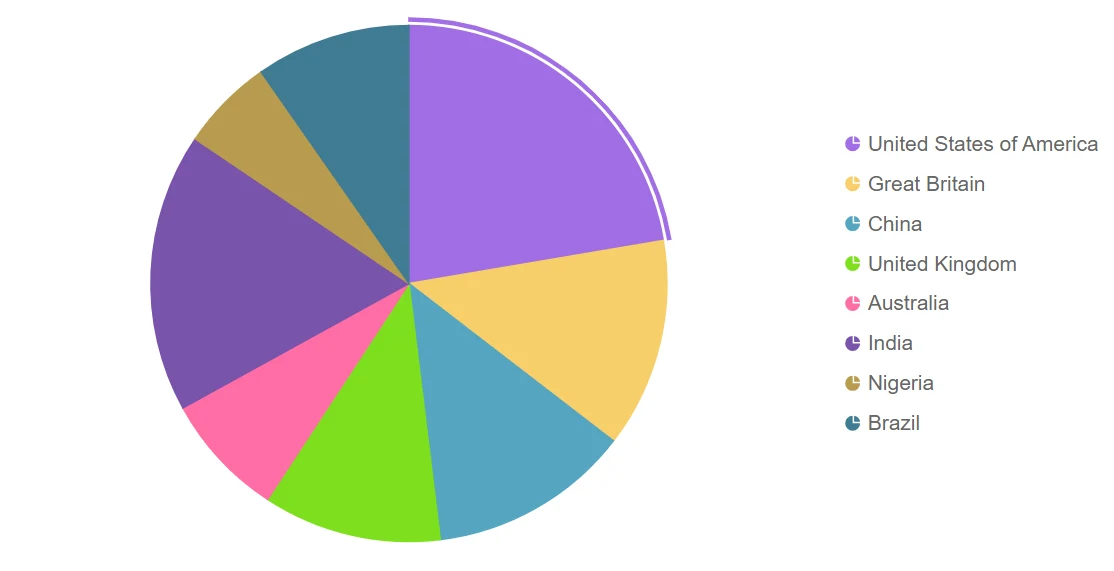
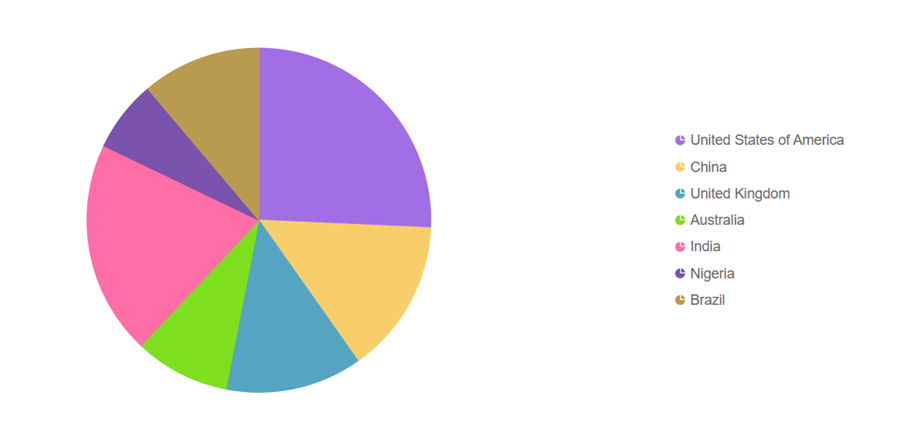
Merge pull request #9771 from syncfusion-content/984330-AI-Prompt
Updated preview sample for Blazor AccumulationChart component

Pull request: Updated preview sample for Blazor AccumulationChart component
## Description
Updated preview sample for Blazor AccumulationChart component.

## Code Studio usage(Mandatory)
- Code Studio used in this PR/MR?
    - [ ] Yes
    - [x] No
- If `Yes`: Primary use (choose one)
    - [ ] Generate new content
    - [ ] Refactor/improve existing content
    - [ ] Review assistance (explanations/summaries)
    - [ ] Other:

- Outcome
    - [ ] Saved time
    - [ ] Neutral
    - [ ] Cost time
- If “Cost time” explain in short (1 or 2 lines):

## Type of Change
- [ ] New documentation page
- [x] Update to existing documentation
- [ ] Bug fix (broken links, typos, formatting issues)
- [ ] Structural change (folders, navigation, index)
- [ ] Content improvement (clarity, examples, screenshots)
- [ ] Other (please describe):

## Reviewer Checklist (Mandatory)
- [ ] Reviewed the provided Code Studio usages related information
- [ ] Content changes follow UG/Documentation guidelines
- [ ] All provided information reviewed and verified
- [ ] Links and previews checked

diff --git a/blazor/accumulation-chart/chart-types/pie-doughnut.md b/blazor/accumulation-chart/chart-types/pie-doughnut.md
@@ -47,7 +47,7 @@ The [Pie Chart](https://www.syncfusion.com/blazor-components/blazor-charts/chart
 
 ```
 
-{% previewsample "https://blazorplayground.syncfusion.com/embed/BXLgsrWqJDwACRFV?appbar=false&editor=false&result=true&errorlist=false&theme=bootstrap5" backgroundimage "[Blazor Pie Chart](../images/pie-dough-nut/blazor-pie-chart.webp)" %}
+{% previewsample "https://blazorplayground.syncfusion.com/embed/LtBxjmseLjkZamMo?appbar=false&editor=false&result=true&errorlist=false&theme=fluent2" backgroundimage "[Blazor Pie Chart](../images/pie-dough-nut/blazor-pie-chart.webp)" %}
 
 ## Radius customization
 
@@ -87,7 +87,7 @@ The radius of the pie series will be set to 80% of its size (minimum of chart wi
 
 ```
 
-{% previewsample "https://blazorplayground.syncfusion.com/embed/BZLgsriKfjQmubFt?appbar=false&editor=false&result=true&errorlist=false&theme=bootstrap5" backgroundimage "[Customizing Radius in Blazor Pie Chart](../images/pie-dough-nut/blazor-pie-chart-radius-customization.webp)" %}
+{% previewsample "https://blazorplayground.syncfusion.com/embed/LXrHjwMeLsjYrpXm?appbar=false&editor=false&result=true&errorlist=false&theme=fluent2" backgroundimage "[Customizing Radius in Blazor Pie Chart](../images/pie-dough-nut/blazor-pie-chart-radius-customization.webp)" %}
 
 ## Pie center
 
@@ -128,7 +128,7 @@ The center x and center y can be used to change the pie's center position. The p
 
 ```
 
-{% previewsample "https://blazorplayground.syncfusion.com/embed/LjrqMLCUztbofzWG?appbar=false&editor=false&result=true&errorlist=false&theme=bootstrap5" backgroundimage "[Changing Blazor Pie Chart Center Position](../images/pie-dough-nut/blazor-pie-chart-center-position.webp)" %}
+{% previewsample "https://blazorplayground.syncfusion.com/embed/LNrHNmiSLsTnDPdd?appbar=false&editor=false&result=true&errorlist=false&theme=fluent2" backgroundimage "[Changing Blazor Pie Chart Center Position](../images/pie-dough-nut/blazor-pie-chart-center-position.webp)" %}
 
 ## Various Radius Pie Chart
 
@@ -170,7 +170,7 @@ The [Radius](https://help.syncfusion.com/cr/blazor/Syncfusion.Blazor.Charts.Accu
 
 ```
 
-{% previewsample "https://blazorplayground.syncfusion.com/embed/LXhAsLWATjPOLGxv?appbar=false&editor=false&result=true&errorlist=false&theme=bootstrap5" backgroundimage "[Blazor Pie Chart displays Various Radius](../images/pie-dough-nut/blazor-pie-chart-with-various-radius.webp)" %}
+{% previewsample "https://blazorplayground.syncfusion.com/embed/LXhHNQWSriHtrDcx?appbar=false&editor=false&result=true&errorlist=false&theme=fluent2" backgroundimage "[Blazor Pie Chart displays Various Radius](../images/pie-dough-nut/blazor-pie-chart-with-various-radius.webp)" %}
 
 ## Doughnut chart
 
@@ -210,7 +210,7 @@ The doughnut chart can be created by setting the [InnerRadius](https://help.sync
 
 ```
 
-{% previewsample "https://blazorplayground.syncfusion.com/embed/LZrKCBsqzZagDOTz?appbar=false&editor=false&result=true&errorlist=false&theme=bootstrap5" backgroundimage "[Blazor Doughnut Chart](../images/pie-dough-nut/blazor-doughnut-chart.webp)" %}
+{% previewsample "https://blazorplayground.syncfusion.com/embed/BXBHXwsohMbHLoWg?appbar=false&editor=false&result=true&errorlist=false&theme=fluent2" backgroundimage "[Blazor Doughnut Chart](../images/pie-dough-nut/blazor-doughnut-chart.webp)" %}
 
 ## Start and end angles
 
@@ -251,7 +251,7 @@ The [StartAngle](https://help.syncfusion.com/cr/blazor/Syncfusion.Blazor.Charts.
 
 ```
 
-{% previewsample "https://blazorplayground.syncfusion.com/embed/VNhqsBCKTjkHQfyz?appbar=false&editor=false&result=true&errorlist=false&theme=bootstrap5" backgroundimage "[Customizing Start and End angles in Blazor Pie Chart](../images/pie-dough-nut/blazor-pie-chart-start-angle-customization.webp)" %}
+{% previewsample "https://blazorplayground.syncfusion.com/embed/VjVnDwMyVVCPpFlE?appbar=false&editor=false&result=true&errorlist=false&theme=fluent2" backgroundimage "[Customizing Start and End angles in Blazor Pie Chart](../images/pie-dough-nut/blazor-pie-chart-start-angle-customization.webp)" %}
 
 ## Color and text mapping
 
@@ -293,7 +293,7 @@ The [StartAngle](https://help.syncfusion.com/cr/blazor/Syncfusion.Blazor.Charts.
 
 ```
 
-{% previewsample "https://blazorplayground.syncfusion.com/embed/VNrUCrWqTiZCBNJq?appbar=false&editor=false&result=true&errorlist=false&theme=bootstrap5" backgroundimage "[Blazor Pie Chart with Color and Text Mapping](../images/pie-dough-nut/blazor-pie-chart-text-mapping.webp)" %}
+{% previewsample "https://blazorplayground.syncfusion.com/embed/hZhdXcioLrzkedaa?appbar=false&editor=false&result=true&errorlist=false&theme=fluent2" backgroundimage "[Blazor Pie Chart with Color and Text Mapping](../images/pie-dough-nut/blazor-pie-chart-text-mapping.webp)" %}
 
 ## Border radius
 
@@ -327,7 +327,7 @@ The corners of all the slices in the pie/donut chart series can be rounded using
     }
 }
 ```
-{% previewsample "https://blazorplayground.syncfusion.com/embed/BjreZdhRKPiaFxIm?appbar=false&editor=false&result=true&errorlist=false&theme=bootstrap5" backgroundimage "[Blazor Pie Chart with border radius applied.](../images/pie-dough-nut/blazor-pie-chart-border-radius.webp)" %}
+{% previewsample "https://blazorplayground.syncfusion.com/embed/rtrxtQsoVLRKQhGr?appbar=false&editor=false&result=true&errorlist=false&theme=fluent2" backgroundimage "[Blazor Pie Chart with border radius applied.](../images/pie-dough-nut/blazor-pie-chart-border-radius.webp)" %}
 
 ## Hide pie or doughnut border
 
@@ -366,7 +366,7 @@ When the mouse hovers over the pie/doughnut chart, the border appears by default
 
 ```
 
-{% previewsample "https://blazorplayground.syncfusion.com/embed/htVqCLWUzWZnpzJw?appbar=false&editor=false&result=true&errorlist=false&theme=bootstrap5" backgroundimage "[Hiding Blazor Pie Chart Border](../images/pie-dough-nut/Blazor-pie-chart-disable-border.webp)" %}
+{% previewsample "https://blazorplayground.syncfusion.com/embed/LNrxZcMIVhGKCmUd?appbar=false&editor=false&result=true&errorlist=false&theme=fluent2" backgroundimage "[Hiding Blazor Pie Chart Border](../images/pie-dough-nut/Blazor-pie-chart-disable-border.webp)" %}
 
 N> Refer to the [Blazor Charts](https://www.syncfusion.com/blazor-components/blazor-charts) feature tour page for its groundbreaking feature representations and also explore the [Blazor Accumulation Chart Example](https://blazor.syncfusion.com/demos/chart/pie?theme=bootstrap5) to know various features of accumulation charts and how it is used to represent numeric proportional data.
 

diff --git a/blazor/accumulation-chart/data-label.md b/blazor/accumulation-chart/data-label.md
@@ -46,7 +46,7 @@ The [Visible](https://help.syncfusion.com/cr/blazor/Syncfusion.Blazor.Charts.Acc
 
 ```
 
-{% previewsample "https://blazorplayground.syncfusion.com/embed/BtBUCrWAJzilTTrb?appbar=false&editor=false&result=true&errorlist=false&theme=bootstrap5" backgroundimage "[Blazor Accumulation Chart with Data Label](images/data-label/blazor-accumulation-chart-with-data-label.webp)" %}
+{% previewsample "https://blazorplayground.syncfusion.com/embed/BtrdDGMorndGijnw?appbar=false&editor=false&result=true&errorlist=false&theme=fluent2" backgroundimage "[Blazor Accumulation Chart with Data Label](images/data-label/blazor-accumulation-chart-with-data-label.webp)" %}
 
 ## Text Wrap
 
@@ -60,7 +60,7 @@ When the data label text exceeds the container, the text can be wrapped by using
 
     <AccumulationChartSeriesCollection>
         <AccumulationChartSeries DataSource="@PieChartPoints" XName="Browser" YName="Users" Name="Browser">
-            <AccumulationDataLabelSettings EnableRotation="true" Visible="true" MaxWidth="100" TextWrap="TextWrap.Wrap" Name="DataLabelMappingName" Position="AccumulationLabelPosition.Inside">
+            <AccumulationDataLabelSettings EnableRotation="true" Visible="true" MaxWidth="100" TextWrap="Syncfusion.Blazor.TextWrap.Wrap" Name="DataLabelMappingName" Position="AccumulationLabelPosition.Inside">
                 </AccumulationDataLabelSettings>
             </AccumulationChartSeries>
         </AccumulationChartSeriesCollection>
@@ -82,7 +82,7 @@ When the data label text exceeds the container, the text can be wrapped by using
     }
 }
 ```
-{% previewsample "https://blazorplayground.syncfusion.com/embed/hjVUCVCgTfRsrPGK?appbar=false&editor=false&result=true&errorlist=false&theme=bootstrap5" backgroundimage "[Text Wrap in Blazor Accumulation Chart](images/data-label/blazor-accumulation-chart-with-data-label-text-wrapping.webp)" %}
+{% previewsample "https://blazorplayground.syncfusion.com/embed/rXhxZQsSrmndVcIH?appbar=false&editor=false&result=true&errorlist=false&theme=fluent2" backgroundimage "[Text Wrap in Blazor Accumulation Chart](images/data-label/blazor-accumulation-chart-with-data-label-text-wrapping.webp)" %}
 
 ## Position
 
@@ -123,7 +123,7 @@ The [Position](https://help.syncfusion.com/cr/blazor/Syncfusion.Blazor.Charts.Ac
 
 ```
 
-{% previewsample "https://blazorplayground.syncfusion.com/embed/VtLUMhsApTwpdpQa?appbar=false&editor=false&result=true&errorlist=false&theme=bootstrap5" backgroundimage "[Changing Data Label Position in Blazor Accumulation Chart](images/data-label/blazor-accumulation-chart-label-position.webp)" %}
+{% previewsample "https://blazorplayground.syncfusion.com/embed/rjLHDGMSVmOhBfYN?appbar=false&editor=false&result=true&errorlist=false&theme=fluent2" backgroundimage "[Changing Data Label Position in Blazor Accumulation Chart](images/data-label/blazor-accumulation-chart-label-position.webp)" %}
 
 ## Smart Labels
 
@@ -175,7 +175,7 @@ Data labels will be arranged smartly without overlapping with each other. The [E
 
 ```
 
-{% previewsample "https://blazorplayground.syncfusion.com/embed/VthqCrMgfzFDgIcO?appbar=false&editor=false&result=true&errorlist=false&theme=bootstrap5" backgroundimage "[Blazor Accumulation Chart with Smart Labels](images/data-label/blazor-accumulation-chart-smart-labels.webp)" %}
+{% previewsample "https://blazorplayground.syncfusion.com/embed/BDrxtQMIVcuwRGty?appbar=false&editor=false&result=true&errorlist=false&theme=fluent2" backgroundimage "[Blazor Accumulation Chart with Smart Labels](images/data-label/blazor-accumulation-chart-smart-labels.webp)" %}
 
 ## Connector line
 
@@ -218,7 +218,7 @@ When the data label is placed [Outside](https://help.syncfusion.com/cr/blazor/Sy
 
 ```
 
-{% previewsample "https://blazorplayground.syncfusion.com/embed/rZLqWVsqzTYnAoVP?appbar=false&editor=false&result=true&errorlist=false&theme=bootstrap5" backgroundimage "[Blazor Accumulation Chart with Connector Line](images/data-label/blazor-accumulation-chart-connector-line.webp)" %}
+{% previewsample "https://blazorplayground.syncfusion.com/embed/BNhxZQsSVFVWsRYI?appbar=false&editor=false&result=true&errorlist=false&theme=fluent2" backgroundimage "[Blazor Accumulation Chart with Connector Line](images/data-label/blazor-accumulation-chart-connector-line.webp)" %}
 
 ## Text mapping
 
@@ -259,7 +259,7 @@ The [Name](https://help.syncfusion.com/cr/blazor/Syncfusion.Blazor.Charts.Accumu
 
 ```
 
-{% previewsample "https://blazorplayground.syncfusion.com/embed/hjrUsrsApeCPdurG?appbar=false&editor=false&result=true&errorlist=false&theme=bootstrap5" backgroundimage "[Text Mapping in Blazor Accumulation Chart](images/data-label/blazor-accumulation-chart-text-mapping.webp)" %}
+{% previewsample "https://blazorplayground.syncfusion.com/embed/hjVxDwCSBPKCpwaV?appbar=false&editor=false&result=true&errorlist=false&theme=fluent2" backgroundimage "[Text Mapping in Blazor Accumulation Chart](images/data-label/blazor-accumulation-chart-text-mapping.webp)" %}
 
 N> Refer to the [Blazor Charts](https://www.syncfusion.com/blazor-components/blazor-charts) feature tour page for its groundbreaking feature representations and also explore the [Blazor Accumulation Chart Example](https://blazor.syncfusion.com/demos/chart/pie?theme=bootstrap5) to know various features of accumulation charts and how it is used to represent numeric proportional data.
 
@@ -302,7 +302,7 @@ Data label for the accumulation chart can be formatted using [Format](https://he
 
 ```
 
-{% previewsample "https://blazorplayground.syncfusion.com/embed/VDhqMLsqzSLpcrER?appbar=false&editor=false&result=true&errorlist=false&theme=bootstrap5" backgroundimage "[Format in Blazor Accumulation Chart](images/data-label/blazor-accumulation-chart-with-data-label-format.webp)" %}
+{% previewsample "https://blazorplayground.syncfusion.com/embed/LtrHXmCerbzGqLZN?appbar=false&editor=false&result=true&errorlist=false&theme=fluent2" backgroundimage "[Format in Blazor Accumulation Chart](images/data-label/blazor-accumulation-chart-with-data-label-format.webp)" %}
 
 ## Template
 
@@ -368,7 +368,7 @@ Data labels can be customized using the template element for the accumulation ch
 
 ```
 
-{% previewsample "https://blazorplayground.syncfusion.com/embed/BNLpZghnzXPGMCxq?appbar=false&editor=false&result=true&errorlist=false&theme=bootstrap5" backgroundimage "[Template in Blazor Accumulation Chart](images/data-label/blazor-accumulation-chart-with-data-label-template.webp)" %}
+{% previewsample "https://blazorplayground.syncfusion.com/embed/VZLxZwiorbwBVjLC?appbar=false&editor=false&result=true&errorlist=false&theme=fluent2" backgroundimage "[Template in Blazor Accumulation Chart](images/data-label/blazor-accumulation-chart-with-data-label-template.webp)" %}
 
 ## See also
 

diff --git a/blazor/accumulation-chart/chart-types/funnel.md b/blazor/accumulation-chart/chart-types/funnel.md
@@ -45,7 +45,7 @@ documentation: ug
 
 ```
 
-{% previewsample "https://blazorplayground.syncfusion.com/embed/rZhgCrCUpgfyPyNU?appbar=false&editor=false&result=true&errorlist=false&theme=bootstrap5" backgroundimage "[Blazor Funnel Chart](../images/funnel/blazor-funnel-chart.webp)" %}
+{% previewsample "https://blazorplayground.syncfusion.com/embed/BthntmCeLoWVaYFO?appbar=false&editor=false&result=true&errorlist=false&theme=fluent2" backgroundimage "[Blazor Funnel Chart](../images/funnel/blazor-funnel-chart.webp)" %}
 
 ## Funnel Size
 
@@ -85,7 +85,7 @@ The size of the funnel chart can be customized by using the [Width](https://help
 
 ```
 
-{% previewsample "https://blazorplayground.syncfusion.com/embed/VNLAWVCgfAlkvtpq?appbar=false&editor=false&result=true&errorlist=false&theme=bootstrap5" backgroundimage "[Customizing Funnel Size in Blazor Funnel Chart](../images/funnel/blazor-funnel-chart-size-customization.webp)" %}
+{% previewsample "https://blazorplayground.syncfusion.com/embed/VZhxDmWIreVBVuEB?appbar=false&editor=false&result=true&errorlist=false&theme=fluent2" backgroundimage "[Customizing Funnel Size in Blazor Funnel Chart](../images/funnel/blazor-funnel-chart-size-customization.webp)" %}
 
 N> The [Blazor Funnel Chart](https://blazor.syncfusion.com/demos/chart/funnel) example can be explored to learn to render and configure the funnel chart.
 
@@ -127,7 +127,7 @@ The neck size of the funnel chart can be customized by using the [NeckWidth](htt
 
 ```
 
-{% previewsample "https://blazorplayground.syncfusion.com/embed/rZVKshsATguqmNHu?appbar=false&editor=false&result=true&errorlist=false&theme=bootstrap5" backgroundimage "[Customizing Funnel Neck Size in Blazor Funnel Chart](../images/funnel/blazor-funnel-chart-neck-size.webp)" %}
+{% previewsample "https://blazorplayground.syncfusion.com/embed/rZhdDcioVSqcLZqM?appbar=false&editor=false&result=true&errorlist=false&theme=fluent2" backgroundimage "[Customizing Funnel Neck Size in Blazor Funnel Chart](../images/funnel/blazor-funnel-chart-neck-size.webp)" %}
 
 ## Gap between funnel segments
 
@@ -167,7 +167,7 @@ The neck size of the funnel chart can be customized by using the [NeckWidth](htt
 
 ```
 
-{% previewsample "https://blazorplayground.syncfusion.com/embed/BDhgshWqpAulylIW?appbar=false&editor=false&result=true&errorlist=false&theme=bootstrap5" backgroundimage "[Blazor Funnel Chart with Gap](../images/funnel/blazor-funnel-chart-with-gap.webp)" %}
+{% previewsample "https://blazorplayground.syncfusion.com/embed/VZhHXwCyBITHlNGm?appbar=false&editor=false&result=true&errorlist=false&theme=fluent2" backgroundimage "[Blazor Funnel Chart with Gap](../images/funnel/blazor-funnel-chart-with-gap.webp)" %}
 
 ## Funnel explode
 
@@ -207,7 +207,7 @@ Points can be exploded on mouse click by setting the [Explode](https://help.sync
 
 ```
 
-{% previewsample "https://blazorplayground.syncfusion.com/embed/BZLKMLsqzpZBowwH?appbar=false&editor=false&result=true&errorlist=false&theme=bootstrap5" backgroundimage "[Explode in Blazor Funnel Chart](../images/funnel/blazor-funnel-chart-explode.webp)" %}
+{% previewsample "https://blazorplayground.syncfusion.com/embed/VNBHDGWSByIedrlB?appbar=false&editor=false&result=true&errorlist=false&theme=fluent2" backgroundimage "[Explode in Blazor Funnel Chart](../images/funnel/blazor-funnel-chart-explode.webp)" %}
 
 ## Smart Data Label
 
@@ -259,7 +259,7 @@ Labels will be arranged automatically on the left side of the funnel and pyramid
 }
 ```
 
-{% previewsample "https://blazorplayground.syncfusion.com/embed/hjVKWrCqppsLzynA?appbar=false&editor=false&result=true&errorlist=false&theme=bootstrap5" backgroundimage "[Blazor Funnel Chart with Smart Data Label](../images/funnel/blazor-funnel-chart-smart-data-label.webp)" %}
+{% previewsample "https://blazorplayground.syncfusion.com/embed/LDhRXGseVIcTBxye?appbar=false&editor=false&result=true&errorlist=false&theme=fluent2" backgroundimage "[Blazor Funnel Chart with Smart Data Label](../images/funnel/blazor-funnel-chart-smart-data-label.webp)" %}
 
 ## Border radius
 
@@ -299,7 +299,7 @@ The corners of the first data point and last data point in the funnel chart seri
     }
 }
 ```
-{% previewsample "https://blazorplayground.syncfusion.com/embed/LjheDHBnqcxEcNgL?appbar=false&editor=false&result=true&errorlist=false&theme=bootstrap5" backgroundimage "[Blazor Funnel Chart with border radius applied.](../images/funnel/blazor-funnel-border-radius.webp)" %}
+{% previewsample "https://blazorplayground.syncfusion.com/embed/BZLRjcWohyPOvlbM?appbar=false&editor=false&result=true&errorlist=false&theme=fluent2" backgroundimage "[Blazor Funnel Chart with border radius applied.](../images/funnel/blazor-funnel-border-radius.webp)" %}
 
 N> Refer to the [Blazor Charts](https://www.syncfusion.com/blazor-components/blazor-charts) feature tour page for its groundbreaking feature representations and also explore the [Blazor Accumulation Chart Example](https://blazor.syncfusion.com/demos/chart/funnel?theme=bootstrap5) to know various features of accumulation charts and how it is used to represent numeric proportional data.
 

diff --git a/blazor/accumulation-chart/chart-types/pyramid.md b/blazor/accumulation-chart/chart-types/pyramid.md
@@ -46,7 +46,7 @@ The [Pyramid Chart](https://www.syncfusion.com/blazor-components/blazor-charts/c
 ```
 
 
-{% previewsample "https://blazorplayground.syncfusion.com/embed/rtBKiBiKfsBiJKAT?appbar=false&editor=false&result=true&errorlist=false&theme=bootstrap5" backgroundimage "[Blazor Pyramid Chart](../images/pyramid/blazor-pyramid-chart.webp)" %}
+{% previewsample "https://blazorplayground.syncfusion.com/embed/hjBHDcMorqHYpqCl?appbar=false&editor=false&result=true&errorlist=false&theme=fluent2" backgroundimage "[Blazor Pyramid Chart](../images/pyramid/blazor-pyramid-chart.webp)" %}
 
 ## Pyramid mode
 
@@ -86,7 +86,7 @@ The Pyramid Chart can be rendered in both `Linear` or `Surface` modes by setting
 
 ```
 
-{% previewsample "https://blazorplayground.syncfusion.com/embed/VXrAiBsKJsKsjaYg?appbar=false&editor=false&result=true&errorlist=false&theme=bootstrap5" backgroundimage "[Blazor Pyramid Chart with Surface Mode](../images/pyramid/blazor-pyramid-chart-with-surface-mode.webp)" %}
+{% previewsample "https://blazorplayground.syncfusion.com/embed/hZrnXcsyhzZpbOMj?appbar=false&editor=false&result=true&errorlist=false&theme=fluent2" backgroundimage "[Blazor Pyramid Chart with Surface Mode](../images/pyramid/blazor-pyramid-chart-with-surface-mode.webp)" %}
 
 ## Pyramid size
 
@@ -126,7 +126,7 @@ The size of the pyramid chart can be customized by using the [Width](https://hel
 
 ```
 
-{% previewsample "https://blazorplayground.syncfusion.com/embed/VZBAMLiAzszQHxDQ?appbar=false&editor=false&result=true&errorlist=false&theme=bootstrap5" backgroundimage "[Customizing Pyramid Size in Blazor Pyramid Chart](../images/pyramid/blazor-pyramid-chart-size.webp)" %}
+{% previewsample "https://blazorplayground.syncfusion.com/embed/VZrRZmCeLfrrsLax?appbar=false&editor=false&result=true&errorlist=false&theme=fluent2" backgroundimage "[Customizing Pyramid Size in Blazor Pyramid Chart](../images/pyramid/blazor-pyramid-chart-size.webp)" %}
 
 ## Gap between pyramid segments
 
@@ -166,7 +166,7 @@ The [Pyramid Chart](https://help.syncfusion.com/cr/blazor/Syncfusion.Blazor.Char
 
 ```
 
-{% previewsample "https://blazorplayground.syncfusion.com/embed/rXVUWhiKJsShBUhS?appbar=false&editor=false&result=true&errorlist=false&theme=bootstrap5" backgroundimage "[Blazor Pyramid Chart with Gap](../images/pyramid/blazor-pyramid-chart-with-gap.webp)" %}
+{% previewsample "https://blazorplayground.syncfusion.com/embed/hXVdjcCoBTUWIhdS?appbar=false&editor=false&result=true&errorlist=false&theme=fluent2" backgroundimage "[Blazor Pyramid Chart with Gap](../images/pyramid/blazor-pyramid-chart-with-gap.webp)" %}
 
 ## Pyramid explode
 
@@ -206,7 +206,7 @@ By setting the [Explode](https://help.syncfusion.com/cr/blazor/Syncfusion.Blazor
 
 ```
 
-{% previewsample "https://blazorplayground.syncfusion.com/embed/BthAMBMATgJWwkNT?appbar=false&editor=false&result=true&errorlist=false&theme=bootstrap5" backgroundimage "[Explode in Blazor Pyramid Chart](../images/pyramid/blazor-pyramid-chart-explode.webp)" %}
+{% previewsample "https://blazorplayground.syncfusion.com/embed/BtrnjGMehJAburOV?appbar=false&editor=false&result=true&errorlist=false&theme=fluent2" backgroundimage "[Explode in Blazor Pyramid Chart](../images/pyramid/blazor-pyramid-chart-explode.webp)" %}
 
 ## Border radius
 
@@ -244,7 +244,7 @@ The corners of the first data point and last data point in the pyramid chart ser
     }
 }
 ```
-{% previewsample "https://blazorplayground.syncfusion.com/embed/LthyDHBRqlAFfKbF?appbar=false&editor=false&result=true&errorlist=false&theme=bootstrap5" backgroundimage "[Blazor Pyramid Chart with border radius applied.](../images/pyramid/blazor-pyramid-border-radius.webp)" %}
+{% previewsample "https://blazorplayground.syncfusion.com/embed/LDrHtwiShfICviDm?appbar=false&editor=false&result=true&errorlist=false&theme=fluent2" backgroundimage "[Blazor Pyramid Chart with border radius applied.](../images/pyramid/blazor-pyramid-border-radius.webp)" %}
 
 N> Refer to our [Blazor Charts](https://www.syncfusion.com/blazor-components/blazor-charts) feature tour page for its groundbreaking feature representations and also explore our [Blazor Accumulation Chart Example](https://blazor.syncfusion.com/demos/chart/pyramid?theme=bootstrap5) to know various features of accumulation charts and how it is used to represent numeric proportional data.
 

diff --git a/blazor/accumulation-chart/getting-started-with-server-app.md b/blazor/accumulation-chart/getting-started-with-server-app.md
@@ -237,7 +237,7 @@ dotnet run
 
 {% endtabcontents %}
 
-{% previewsample "https://blazorplayground.syncfusion.com/embed/LjhzDWVeVKeUbWGh?appbar=false&editor=false&result=true&errorlist=false&theme=bootstrap5" backgroundimage "[Blazor Accumulation Chart](images/getting-started/blazor-pie-chart-webapp.webp)" %}
+{% previewsample "https://blazorplayground.syncfusion.com/embed/LDhdDciIMbTJzWSG?appbar=false&editor=false&result=true&errorlist=false&theme=fluent2" backgroundimage "[Blazor Accumulation Chart](images/getting-started/blazor-pie-chart-webapp.webp)" %}
 
 N> [View Sample in GitHub](https://github.com/SyncfusionExamples/Blazor-Getting-Started-Examples/tree/main/AccumulationChart)
 

diff --git a/blazor/accumulation-chart/getting-started-with-web-app.md b/blazor/accumulation-chart/getting-started-with-web-app.md
@@ -245,7 +245,7 @@ dotnet run
 
 {% endtabcontents %}
 
-{% previewsample "https://blazorplayground.syncfusion.com/embed/LjhzDWVeVKeUbWGh?appbar=false&editor=false&result=true&errorlist=false&theme=bootstrap5" backgroundimage "[Blazor Accumulation Chart](images/getting-started/blazor-pie-chart-webapp.webp)" %}
+{% previewsample "https://blazorplayground.syncfusion.com/embed/LDhdDciIMbTJzWSG?appbar=false&editor=false&result=true&errorlist=false&theme=fluent2" backgroundimage "[Blazor Accumulation Chart](images/getting-started/blazor-pie-chart-webapp.webp)" %}
 
 N> [View Sample in GitHub](https://github.com/SyncfusionExamples/Blazor-Getting-Started-Examples/tree/main/AccumulationChart)
 

diff --git a/blazor/accumulation-chart/getting-started.md b/blazor/accumulation-chart/getting-started.md
@@ -234,7 +234,7 @@ dotnet run
 
 {% endtabcontents %}
 
-{% previewsample "https://blazorplayground.syncfusion.com/embed/LjhzDWVeVKeUbWGh?appbar=false&editor=false&result=true&errorlist=false&theme=bootstrap5" backgroundimage "[Blazor Accumulation Chart](images/getting-started/blazor-pie-chart.webp)" %}
+{% previewsample "https://blazorplayground.syncfusion.com/embed/LDhdDciIMbTJzWSG?appbar=false&editor=false&result=true&errorlist=false&theme=fluent2" backgroundimage "[Blazor Accumulation Chart](images/getting-started/blazor-pie-chart.webp)" %}
 
 N> [View Sample in GitHub](https://github.com/SyncfusionExamples/Blazor-Getting-Started-Examples/tree/main/AccumulationChart).
 